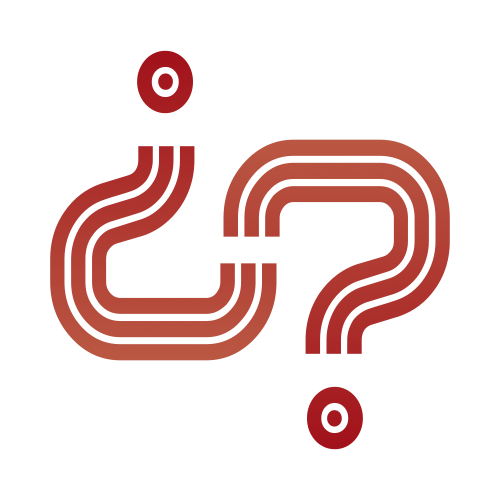
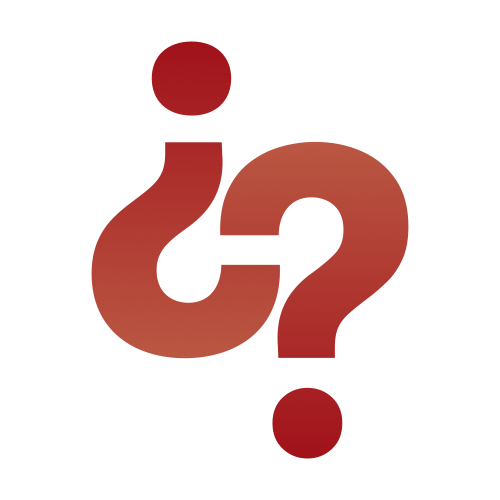
Tint the whole brand mark by status; new bolder artwork
Switch the tray from a corner badge to tinting the entire "¿?" mark with
the health color (gray/green/amber/red) via SourceIn — reads clearly at
menubar size, where the previous fine-line art and small badge did not.
Replace the artwork with the bolder, solid-shape version.

Changed region(s): [[0.09, 0.27, 0.9, 0.72], [0.27, 0.06, 0.48, 0.24], [0.54, 0.75, 0.75, 0.93]]

diff --git a/src/tray/main.cpp b/src/tray/main.cpp
@@ -80,30 +80,24 @@ QIcon dotIcon(Health h) {
     return QIcon(pm);
 }
 
-// The brand mark with a status-colored dot badged into the bottom-right corner
-// (white-ringed for contrast against the red artwork). Falls back to the plain
-// dot if the resource didn't load.
+// The brand mark tinted with the health color: the whole "¿?" turns
+// gray/green/amber/red, so status reads at a glance even at menubar size.
+// Falls back to the plain dot if the resource didn't load.
 QIcon trayIcon(Health h) {
     const QPixmap& base = brandBase();
     if (base.isNull()) return dotIcon(h);
 
     const int S = 44;  // rendered large; the menubar downscales it crisply
-    QPixmap canvas(S, S);
+    QPixmap art = base.scaled(S, S, Qt::KeepAspectRatio, Qt::SmoothTransformation);
+
+    QPixmap canvas(art.size());
     canvas.fill(Qt::transparent);
     QPainter p(&canvas);
-    p.setRenderHint(QPainter::Antialiasing);
     p.setRenderHint(QPainter::SmoothPixmapTransform);
-
-    QPixmap art = base.scaled(S, S, Qt::KeepAspectRatio, Qt::SmoothTransformation);
-    p.drawPixmap((S - art.width()) / 2, (S - art.height()) / 2, art);
-
-    const qreal rr = S * 0.26;                 // badge radius
-    const QPointF c(S - rr - 1.0, S - rr - 1.0);  // bottom-right
-    p.setPen(Qt::NoPen);
-    p.setBrush(Qt::white);
-    p.drawEllipse(c, rr, rr);                  // halo
-    p.setBrush(colorFor(h));
-    p.drawEllipse(c, rr * 0.72, rr * 0.72);    // status dot
+    p.drawPixmap(0, 0, art);
+    // Recolor every opaque pixel to the status color, keeping the shape (alpha).
+    p.setCompositionMode(QPainter::CompositionMode_SourceIn);
+    p.fillRect(canvas.rect(), colorFor(h));
     p.end();
     return QIcon(canvas);
 }
